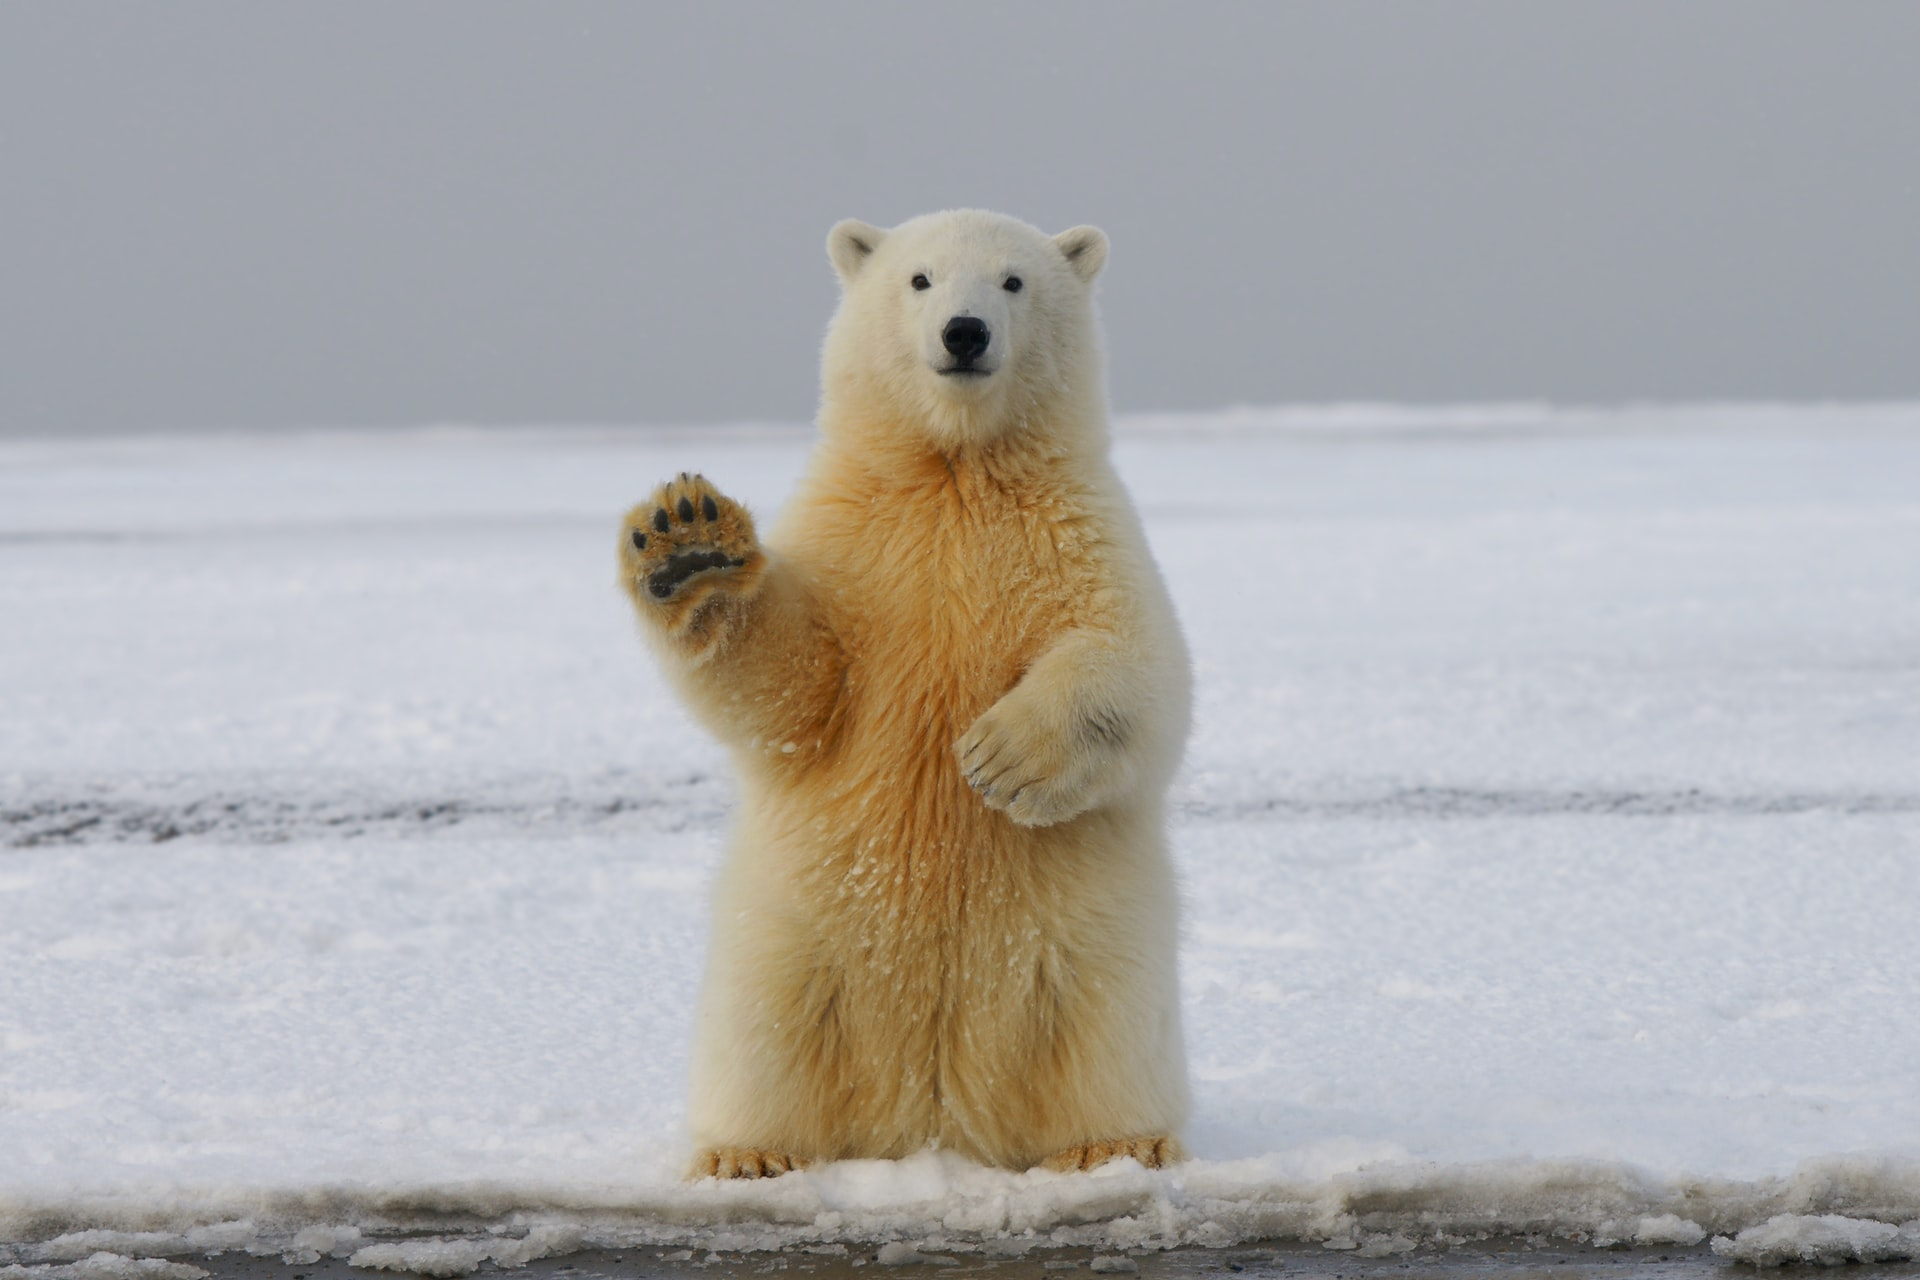
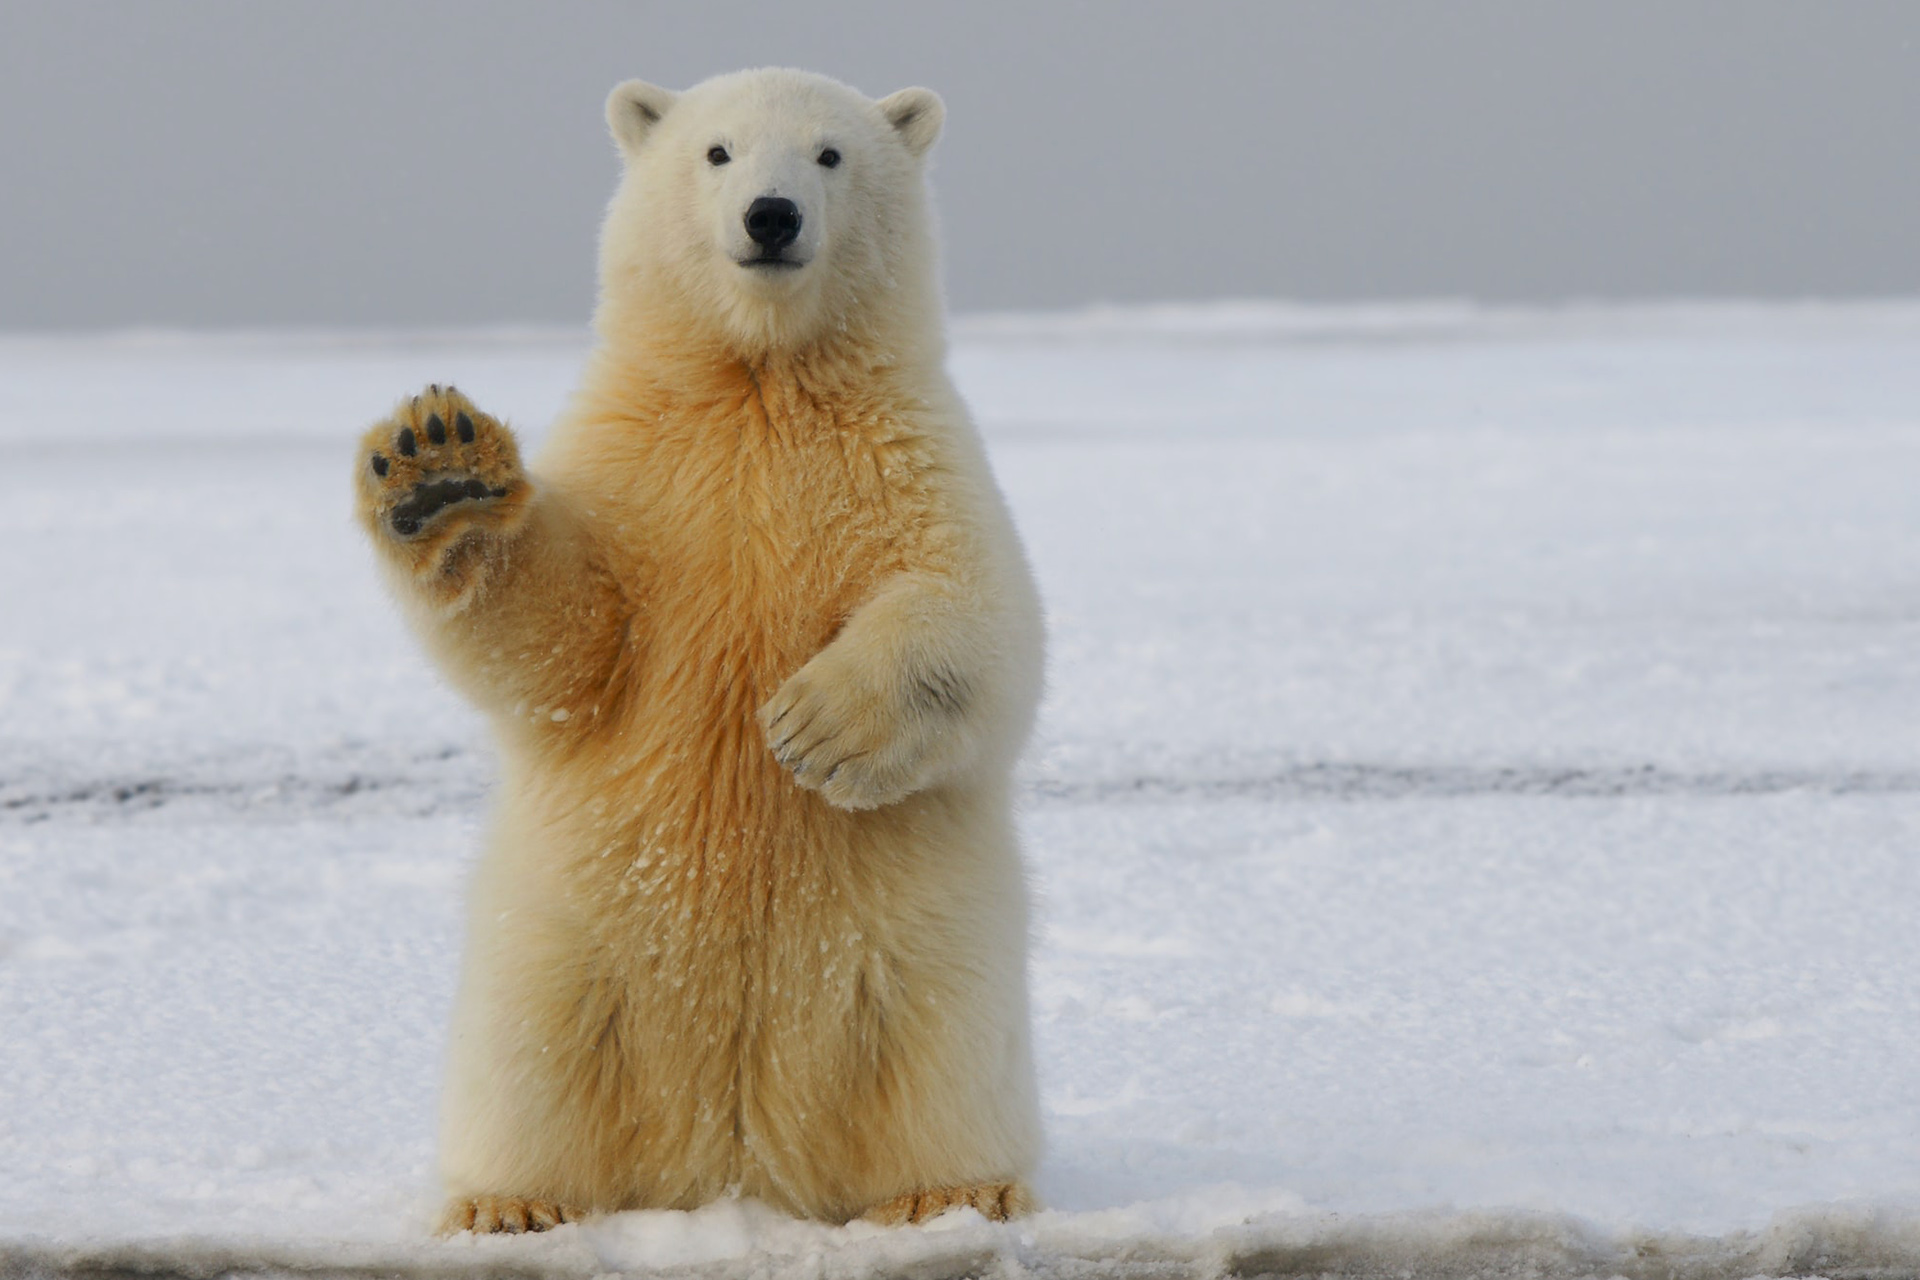
[fix]:polarbear img size

diff --git a/src/pages/ShowNotePage/components/AnimalBG.js b/src/pages/ShowNotePage/components/AnimalBG.js
@@ -10,12 +10,12 @@ import styled from "styled-components";
 const DarkLayer = styled.div`
   background-color: #00000044;
   width: 100%;
-  height: 100%;
+  height: 120vh;
 `;
 const BGWrapper = styled.div`
 z-index: 8;
   width: 100%;
-  height: 100%;
+  height: 120vh;
   position: absolute;
   background-image: url(${({ BGsrc }) => BGsrc});
   background-size: contain;
